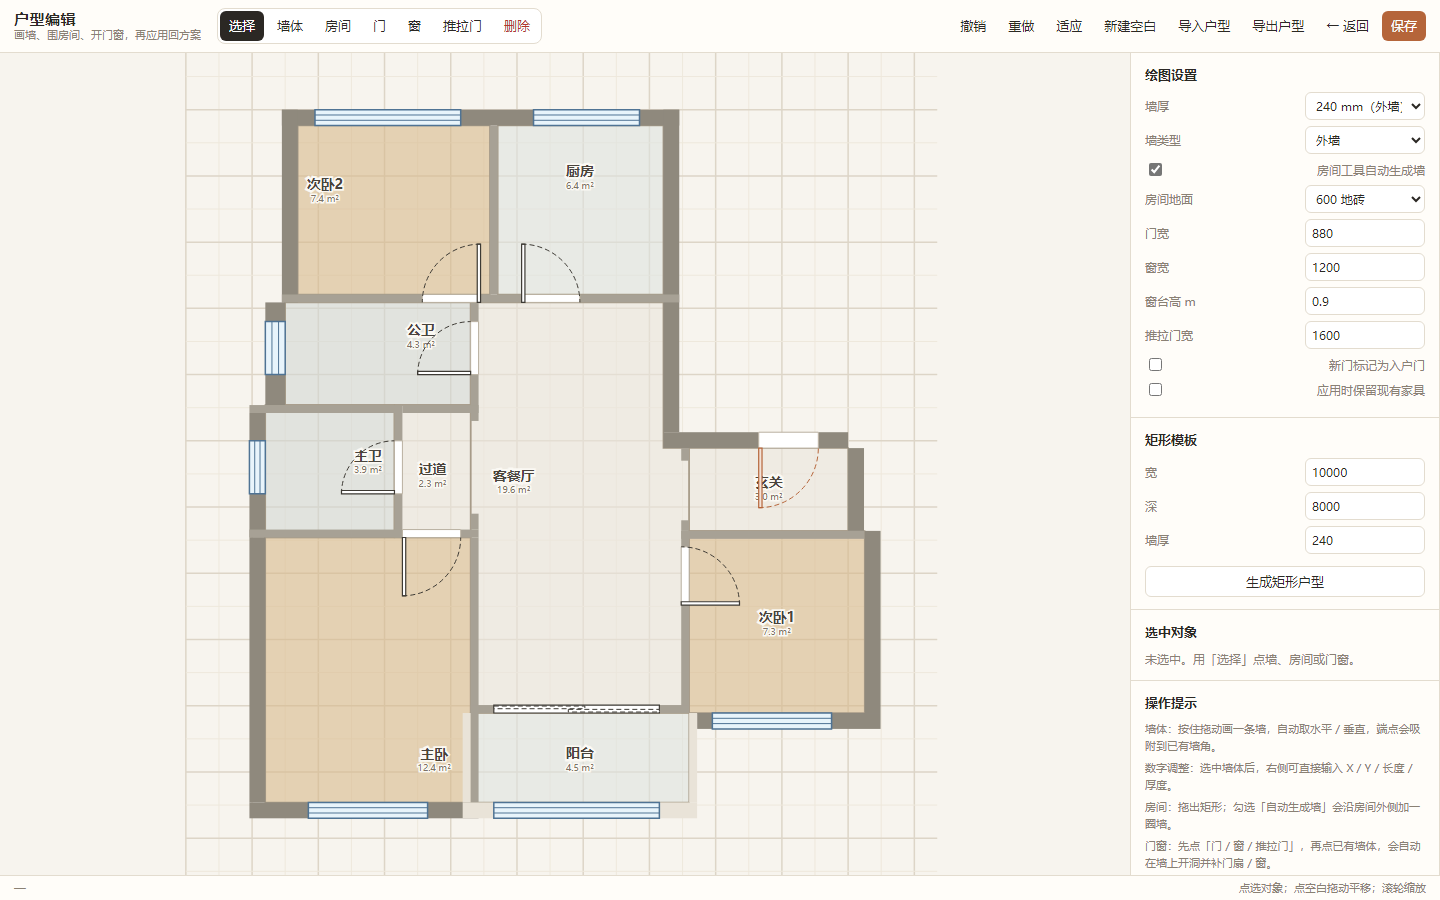
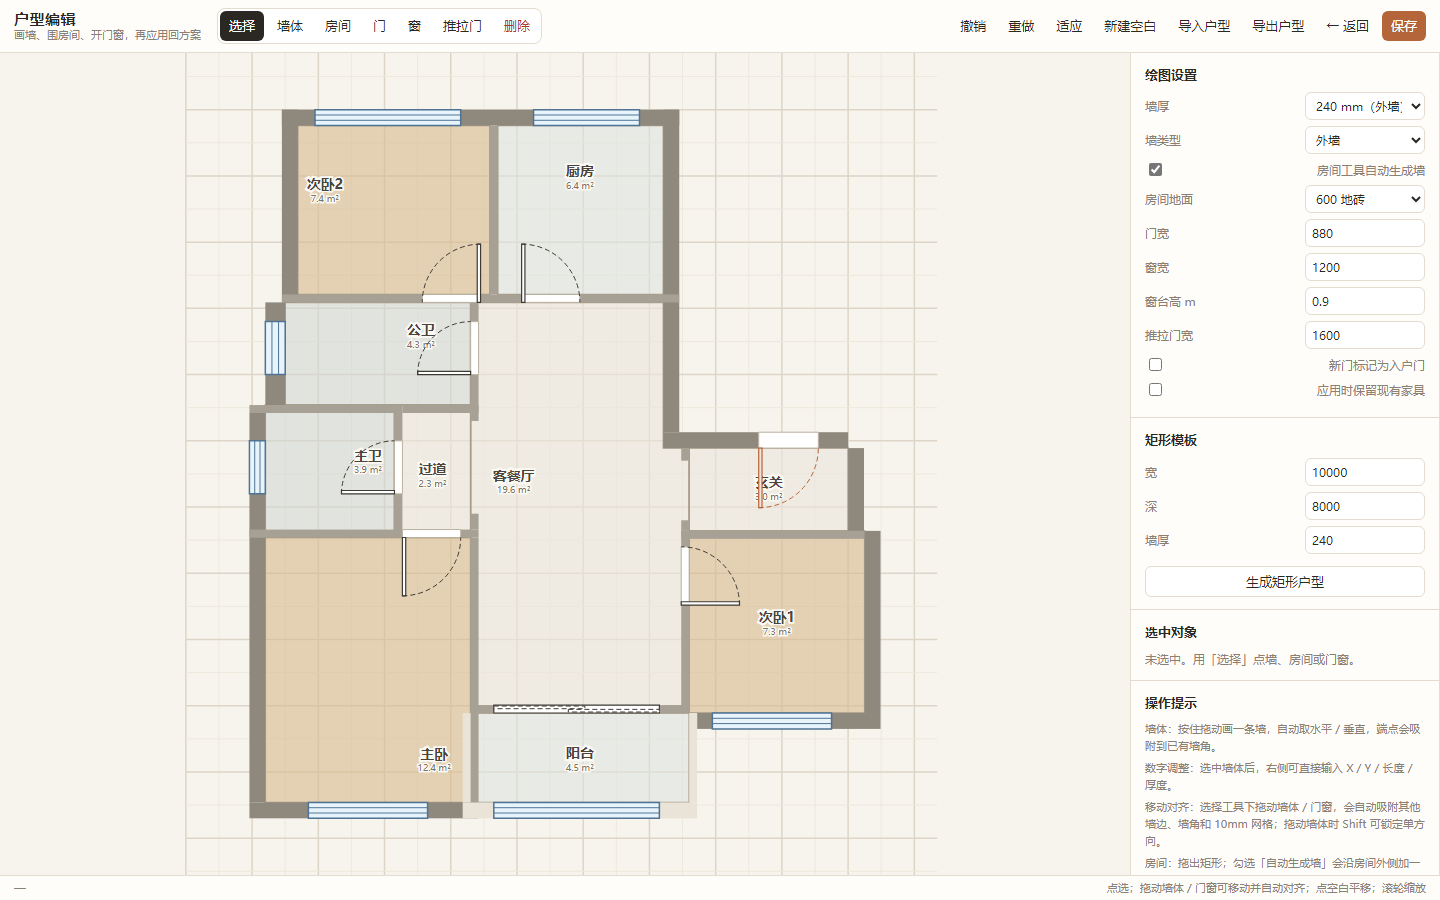
feat: drag and align walls, doors, and windows

Changed region(s): [[0.7812, 0.8711, 1.0, 0.9956]]

diff --git a/index.html b/index.html
@@ -443,6 +443,7 @@ main.drawer-panel #fab{opacity:0;visibility:hidden}
         <h3>操作提示</h3>
         <p>墙体：按住拖动画一条墙，自动取水平 / 垂直，端点会吸附到已有墙角。</p>
         <p>数字调整：选中墙体后，右侧可直接输入 X / Y / 长度 / 厚度。</p>
+        <p>移动对齐：选择工具下拖动墙体 / 门窗，会自动吸附其他墙边、墙角和 10mm 网格；拖动墙体时 Shift 可锁定单方向。</p>
         <p>房间：拖出矩形；勾选「自动生成墙」会沿房间外侧加一圈墙。</p>
         <p>门窗：先点「门 / 窗 / 推拉门」，再点已有墙体，会自动在墙上开洞并补门扇 / 窗。</p>
         <p>删除：点「删除」后点对象；删门窗会自动补回墙洞。</p>
@@ -1692,6 +1693,7 @@ const planEditor = (() => {
   const svg = q('#peSvg'), el = q('#planEditor');
   let open = false, tool = 'select', draft = empty(), sel = null, viewBox = {x:0, y:0, w:10000, h:8000};
   let drag = null, pan = null, hover = null, history = [], future = [], baseline = null;
+  let move = null;   // 选择工具拖动墙体 / 门窗时的移动状态
 
   const num = (id, def) => { const v = parseFloat(q(id).value); return Number.isFinite(v) ? v : def; };
   const round = v => Math.round(v/10)*10;
@@ -1806,6 +1808,97 @@ const planEditor = (() => {
     draft.WALLS.forEach((w, i) => { const d = wallDist(w, x, y); if (d < bd){ bd = d; best = {i, w}; } });
     return best && bd <= Math.max(160, num('#peWallT',120)/2 + 60) ? best : null;
   }
+
+  function sameBand(a, b, horiz){
+    return horiz
+      ? Math.abs(a[1]-b[1]) < 2 && Math.abs(a[3]-b[3]) < 2
+      : Math.abs(a[0]-b[0]) < 2 && Math.abs(a[2]-b[2]) < 2;
+  }
+  function bestDelta(vals, targets, max = 150){
+    let best = null;
+    vals.forEach(v => targets.forEach(t => {
+      const d = t - v;
+      if (Math.abs(d) < 1) return;
+      if (Math.abs(d) <= max && (!best || Math.abs(d) < Math.abs(best.d))) best = {d, at:t};
+    }));
+    return best;
+  }
+  function moveWall(orig, idx, rawDx, rawDy, lock){
+    const w = orig.WALLS[idx], horiz = (w[2]-w[0]) >= (w[3]-w[1]);
+    const group = [];
+    orig.WALLS.forEach((x, i) => { if (sameBand(x, w, horiz)) group.push(i); });
+    const exclude = new Set(group), xs = [], ys = [];
+    orig.WALLS.forEach((x, i) => {
+      if (exclude.has(i)) return;
+      xs.push(x[0], x[2], (x[0]+x[2])/2); ys.push(x[1], x[3], (x[1]+x[3])/2);
+    });
+    orig.ROOMS.forEach(r => r.poly.forEach(p => { xs.push(p[0]); ys.push(p[1]); }));
+    const sx = lock === 'y' ? null : bestDelta([w[0], w[2], (w[0]+w[2])/2], xs);
+    const sy = lock === 'x' ? null : bestDelta([w[1], w[3], (w[1]+w[3])/2], ys);
+    let dx = sx ? sx.d : Math.round((w[0]+rawDx)/10)*10 - w[0];
+    let dy = sy ? sy.d : Math.round((w[1]+rawDy)/10)*10 - w[1];
+    if (lock === 'x') dy = 0; if (lock === 'y') dx = 0;
+    const d = clone(orig);
+    const spans = group.map(i => horiz ? [orig.WALLS[i][0], orig.WALLS[i][2]] : [orig.WALLS[i][1], orig.WALLS[i][3]]).flat();
+    const min = Math.min(...spans), max = Math.max(...spans);
+    group.forEach(i => { const x = d.WALLS[i]; x[0] += dx; x[2] += dx; x[1] += dy; x[3] += dy; });
+    const inside = r => { const c = horiz ? (r[0]+r[2])/2 : (r[1]+r[3])/2; return c >= min-1 && c <= max+1; };
+    d.DOORS.forEach(o => { if (sameBand(o.rect, w, horiz) && inside(o.rect)){ o.rect[0] += dx; o.rect[2] += dx; o.rect[1] += dy; o.rect[3] += dy; o.h[0] += dx; o.h[1] += dy; } });
+    d.WINS.forEach(r => { if (sameBand(r, w, horiz) && inside(r)){ r[0] += dx; r[2] += dx; r[1] += dy; r[3] += dy; } });
+    d.SLIDES.forEach(o => { if (sameBand(o.rect, w, horiz) && inside(o.rect)){ o.rect[0] += dx; o.rect[2] += dx; o.rect[1] += dy; o.rect[3] += dy; } });
+    return {draft:d, guides:{x:sx?[sx.at]:[], y:sy?[sy.at]:[]}};
+  }
+  function moveOpening(orig, hit, rawDx, rawDy){
+    const obj = hit.kind === 'door' ? orig.DOORS[hit.i] : hit.kind === 'win' ? orig.WINS[hit.i] : orig.SLIDES[hit.i];
+    if (!obj) return null;
+    const rect = hit.kind === 'win' ? [obj[0], obj[1], obj[2], obj[3]] : obj.rect;
+    const horiz = (rect[2]-rect[0]) >= (rect[3]-rect[1]);
+    const width = horiz ? rect[2]-rect[0] : rect[3]-rect[1];
+    const coll = orig.WALLS.filter(w => sameBand(w, rect, horiz));
+    if (!coll.length) return null;
+    const spans = coll.map(w => horiz ? [w[0], w[2]] : [w[1], w[3]]).flat();
+    let spanMin = Math.min(...spans), spanMax = Math.max(...spans);
+    spanMin = Math.min(spanMin, horiz ? rect[0] : rect[1]);
+    spanMax = Math.max(spanMax, horiz ? rect[2] : rect[3]);
+    const start = horiz ? rect[0] : rect[1], end = horiz ? rect[2] : rect[3];
+    const intervals = [];
+    const add = r => { if (sameBand(r, rect, horiz)) intervals.push(horiz ? [r[0],r[2]] : [r[1],r[3]]); };
+    orig.DOORS.forEach((o,j) => { if (!(hit.kind === 'door' && j === hit.i)) add(o.rect); });
+    orig.WINS.forEach((r,j) => { if (!(hit.kind === 'win' && j === hit.i)) add(r); });
+    orig.SLIDES.forEach((o,j) => { if (!(hit.kind === 'slide' && j === hit.i)) add(o.rect); });
+    let left = spanMin, right = spanMax;
+    intervals.forEach(([a,b]) => { if (b <= start+1) left = Math.max(left, b); if (a >= end-1) right = Math.min(right, a); });
+    const minStart = Math.max(spanMin, left), maxStart = Math.min(spanMax-width, right-width);
+    if (maxStart < minStart) return null;
+    const feats = [spanMin, spanMax, (spanMin+spanMax)/2];
+    coll.forEach(w => { feats.push(horiz ? w[0] : w[1], horiz ? w[2] : w[3]); });
+    intervals.forEach(([a,b]) => feats.push(a, b, (a+b)/2));
+    const snap = bestDelta([start, end, (start+end)/2], feats, 80);
+    const delta = snap ? snap.d : Math.round((start + (horiz ? rawDx : rawDy))/10)*10 - start;
+    const newStart = clamp(start + delta, minStart, maxStart), newEnd = newStart + width;
+    const d = clone(orig);
+    const before = d.WALLS.find(w => sameBand(w, rect, horiz) && Math.abs((horiz ? w[2] : w[3]) - start) < 2);
+    const after = d.WALLS.find(w => sameBand(w, rect, horiz) && Math.abs((horiz ? w[0] : w[1]) - end) < 2);
+    const type = before?.[4] || after?.[4] || coll[0][4] || 'n';
+    if (before) before[horiz?2:3] = newStart;
+    if (after) after[horiz?0:1] = newEnd;
+    if (!before && newStart > spanMin+1) d.WALLS.push(horiz ? [spanMin, rect[1], newStart, rect[3], type] : [rect[0], spanMin, rect[2], newStart, type]);
+    if (!after && newEnd < spanMax-1) d.WALLS.push(horiz ? [newEnd, rect[1], spanMax, rect[3], type] : [rect[0], newEnd, rect[2], spanMax, type]);
+    const shift = newStart - start;
+    const o = hit.kind === 'door' ? d.DOORS[hit.i] : hit.kind === 'win' ? d.WINS[hit.i] : d.SLIDES[hit.i];
+    if (hit.kind === 'door'){
+      o.rect[0] += shift; o.rect[2] += shift; o.rect[1] += (horiz ? 0 : shift); o.rect[3] += (horiz ? 0 : shift);
+      o.h[horiz?0:1] += shift;
+    } else if (hit.kind === 'win'){
+      o[0] += shift; o[2] += shift; o[1] += (horiz ? 0 : shift); o[3] += (horiz ? 0 : shift);
+    } else {
+      o.rect[0] += shift; o.rect[2] += shift; o.rect[1] += (horiz ? 0 : shift); o.rect[3] += (horiz ? 0 : shift);
+    }
+    d.WALLS = d.WALLS.filter(w => w[2]-w[0] > 1 && w[3]-w[1] > 1);
+    const guide = snap && Math.abs(newStart - (start + snap.d)) < 1 ? snap.at : null;
+    return {draft:d, guides:{x:horiz && guide !== null ? [guide] : [], y:!horiz && guide !== null ? [guide] : []}};
+  }
+
   function addOpening(kind, x, y){
     const hit = wallAt(x, y);
     if (!hit) return toast(tr('请点在墙上','Click on a wall'));
@@ -1883,7 +1976,7 @@ const planEditor = (() => {
   }
 
   const hints = {
-    select:'点选对象；点空白拖动平移；滚轮缩放',
+    select:'点选；拖动墙体 / 门窗可移动并自动对齐；点空白平移；滚轮缩放',
     wall:'按住拖动画墙，自动水平 / 垂直，端点吸附墙角',
     room:'拖出矩形房间；勾选自动生成墙会沿房间加墙',
     door:'点已有墙体放置门，自动开洞',
@@ -1966,6 +2059,10 @@ const planEditor = (() => {
       else r = [round(Math.min(drag.a.x,drag.b.x)), round(Math.min(drag.a.y,drag.b.y)), round(Math.max(drag.a.x,drag.b.x)), round(Math.max(drag.a.y,drag.b.y))];
       s += `<rect x="${r[0]}" y="${r[1]}" width="${Math.max(0,r[2]-r[0])}" height="${Math.max(0,r[3]-r[1])}" fill="#b5653a" fill-opacity=".2" stroke="#b5653a" stroke-width="2" stroke-dasharray="6 4" vector-effect="non-scaling-stroke"/>`;
     }
+    if (move?.guides){
+      (move.guides.x || []).forEach(gx => s += `<line x1="${gx}" y1="${v.y}" x2="${gx}" y2="${v.y+v.h}" stroke="#2f5d62" stroke-width="1.5" stroke-dasharray="7 5" vector-effect="non-scaling-stroke"/>`);
+      (move.guides.y || []).forEach(gy => s += `<line x1="${v.x}" y1="${gy}" x2="${v.x+v.w}" y2="${gy}" stroke="#2f5d62" stroke-width="1.5" stroke-dasharray="7 5" vector-effect="non-scaling-stroke"/>`);
+    }
     if (!draft.WALLS.length && !draft.ROOMS.length){
       s += `<text x="${v.x+v.w/2}" y="${v.y+v.h/2}" font-size="${clamp(v.w/14,140,320)}" text-anchor="middle" fill="#a79b88">拖动画墙 / 房间</text>`;
     }
@@ -2042,7 +2139,12 @@ const planEditor = (() => {
     if (tool === 'select'){
       const hit = hitAt(p.x, p.y);
       sel = hit; render(); renderProps();
-      if (!hit){ pan = {last:p}; svg.setPointerCapture(e.pointerId); }
+      if (!hit){
+        pan = {last:p}; svg.setPointerCapture(e.pointerId);
+      } else if (['wall','door','win','slide'].includes(hit.kind)){
+        move = {hit, start:p, startClient:{x:e.clientX, y:e.clientY}, orig:clone(draft), moved:false, guides:{x:[], y:[]}};
+        svg.setPointerCapture(e.pointerId);
+      }
       return;
     }
     if (tool === 'delete'){ const hit = hitAt(p.x, p.y); if (hit){ sel = hit; deleteSel(); } return; }
@@ -2060,6 +2162,18 @@ const planEditor = (() => {
     if (!open) return;
     const p = toMM(e);
     q('#peCursor').textContent = `${Math.round(p.x)}, ${Math.round(p.y)} mm`;
+    if (move){
+      if (!move.moved && Math.hypot(e.clientX-move.startClient.x, e.clientY-move.startClient.y) < 4) return;
+      const rawDx = p.x - move.start.x, rawDy = p.y - move.start.y;
+      const lock = e.shiftKey ? (Math.abs(rawDx) >= Math.abs(rawDy) ? 'x' : 'y') : null;
+      const res = move.hit.kind === 'wall'
+        ? moveWall(move.orig, move.hit.i, rawDx, rawDy, lock)
+        : moveOpening(move.orig, move.hit, rawDx, rawDy);
+      if (!res) return;
+      if (!move.moved){ pushHistory(); move.moved = true; }
+      draft = res.draft; move.guides = res.guides; render();
+      return;
+    }
     if (pan){ viewBox.x -= p.x - pan.last.x; viewBox.y -= p.y - pan.last.y; pan.last = p; render(); return; }
     if (drag && (drag.kind === 'wall' || drag.kind === 'room')){ drag.b = snapPoint(p); render(); return; }
     if (tool === 'door' || tool === 'window' || tool === 'slide'){
@@ -2069,6 +2183,7 @@ const planEditor = (() => {
   }
   function onUp(e){
     if (!open) return;
+    if (move){ const moved = move.moved; move = null; if (moved){ render(); renderProps(); } return; }
     if (pan){ pan = null; return; }
     if (!drag) return;
     if (drag.kind === 'wall') addWall(drag.a, drag.b);
@@ -2204,7 +2319,7 @@ const planEditor = (() => {
   svg.addEventListener('pointerdown', onDown);
   svg.addEventListener('pointermove', onMove);
   svg.addEventListener('pointerup', onUp);
-  svg.addEventListener('pointercancel', () => { pan = null; drag = null; });
+  svg.addEventListener('pointercancel', () => { pan = null; drag = null; move = null; });
   svg.addEventListener('pointerleave', () => { if (hover){ hover = null; render(); } });
   svg.addEventListener('wheel', onWheel, {passive:false});
   svg.addEventListener('contextmenu', e => e.preventDefault());

diff --git a/CUSTOMIZE.md b/CUSTOMIZE.md
@@ -15,6 +15,7 @@
    - **门 / 窗 / 推拉门**：先点工具，再点已有墙体，会自动开洞
    - **选择**：点选对象后，右侧可改名、换地面、改墙类型、翻转门向
    - **墙体数字调整**：选中墙体后，右侧可直接输入 **X / Y / 长度 / 厚度** 精确修改
+   - **移动对齐**：选择工具下拖动墙体 / 门窗，会自动吸附墙边、墙角和 10mm 网格；拖动墙体时按 Shift 锁定单方向
    - **删除**：点对象删除；删门窗会自动补回墙洞
 4. 也可以点 **「新建空白」** 从零画，或点 **「生成矩形户型」** 一键生成外墙 + 房间 + 入户门 + 窗
 5. 点 **「保存」** —— 2D / 3D / 面积 / 尺寸标注会一起重建并保存
@@ -36,20 +37,20 @@
 
 | 数据 | 位置 | 作用 |
 | --- | --- | --- |
-| `WALLS` | 508–540 行 | 所有墙体（矩形） |
-| `WINS` | 542–553 行 | 窗洞（含窗台 / 窗顶高度） |
-| `DOORS` | 555–563 行 | 平开门 |
-| `SLIDES` | 565–567 行 | 推拉门 |
-| `BAYS` | 569 行 | 飘窗洞口（房间与飘窗之间的墙洞） |
-| `ROOMS` | 571–581 行 | 房间多边形、名称、地面材料、标签位置 |
-| `MATS` | 583–592 行 | 地面材料名称、单价、色块 |
-| `defaultFurniture()` | 630–659 行 | 默认家具（绝对坐标） |
-| `BOUNDS` | 683 行 | 2D 初始视野范围 |
-| `mirrorBuiltInPlan()` | 690 行 | 把内置户型水平翻转到图片方向 |
-| `PLAN_STORE` | 701 行 | 自定义户型在 localStorage 的 key |
-| `OX` / `OY` | 2231 行 | 3D 场景把户型中心放到世界原点 |
-| `buildArch()` | 2998 行起 | 用数据生成 3D 墙体 / 门窗 / 地板 |
-| `planEditor` | 1688 行起 | 页面户型编辑器 |
+| `WALLS` | 509–541 行 | 所有墙体（矩形） |
+| `WINS` | 543–554 行 | 窗洞（含窗台 / 窗顶高度） |
+| `DOORS` | 556–564 行 | 平开门 |
+| `SLIDES` | 566–568 行 | 推拉门 |
+| `BAYS` | 570 行 | 飘窗洞口（房间与飘窗之间的墙洞） |
+| `ROOMS` | 572–582 行 | 房间多边形、名称、地面材料、标签位置 |
+| `MATS` | 584–593 行 | 地面材料名称、单价、色块 |
+| `defaultFurniture()` | 631–660 行 | 默认家具（绝对坐标） |
+| `BOUNDS` | 684 行 | 2D 初始视野范围 |
+| `mirrorBuiltInPlan()` | 691 行 | 把内置户型水平翻转到图片方向 |
+| `PLAN_STORE` | 702 行 | 自定义户型在 localStorage 的 key |
+| `OX` / `OY` | 2347 行 | 3D 场景把户型中心放到世界原点 |
+| `buildArch()` | 3114 行起 | 用数据生成 3D 墙体 / 门窗 / 地板 |
+| `planEditor` | 1689 行起 | 页面户型编辑器 |
 
 > 页面编辑器保存户型时会自动重算 `BOUNDS`、`PLAN_CENTER`、尺寸标注和 3D 相机。
 > 只有**手动改底层数组**时，才需要自己调整 `BOUNDS` / `OX` / `OY`。

diff --git a/README.md b/README.md
@@ -9,6 +9,7 @@
 **2D 平面布置**
 - 顶栏「✎ 户型编辑」：画墙、拖出房间、点墙开门窗，新建空白户型或一键生成矩形模板
 - 选中墙体后可输入 X / Y / 长度 / 厚度精确调整；编辑器提供「← 返回」和「保存」
+- 选择工具下可拖动墙体 / 门窗移动，自动吸附墙边、墙角和 10mm 网格
 - 保存户型后自动重建 2D / 3D、面积统计和尺寸标注，户型保存在浏览器本地，刷新不丢
 - 支持户型 JSON 导入 / 导出，方便备份和换电脑
 - 支持 1:60 / 1:100 比例显示，尺寸单位 mm
@@ -93,6 +94,8 @@ python3 -m http.server 8000
 ![户型编辑器](docs/plan-editor.png)
 
 ![墙体数字调整](docs/plan-wall-edit.png)
+
+![拖动墙体 / 门窗对齐](docs/plan-move.png)
 
 ![应用后 2D 平面](docs/plan-result-2d.png)
 
